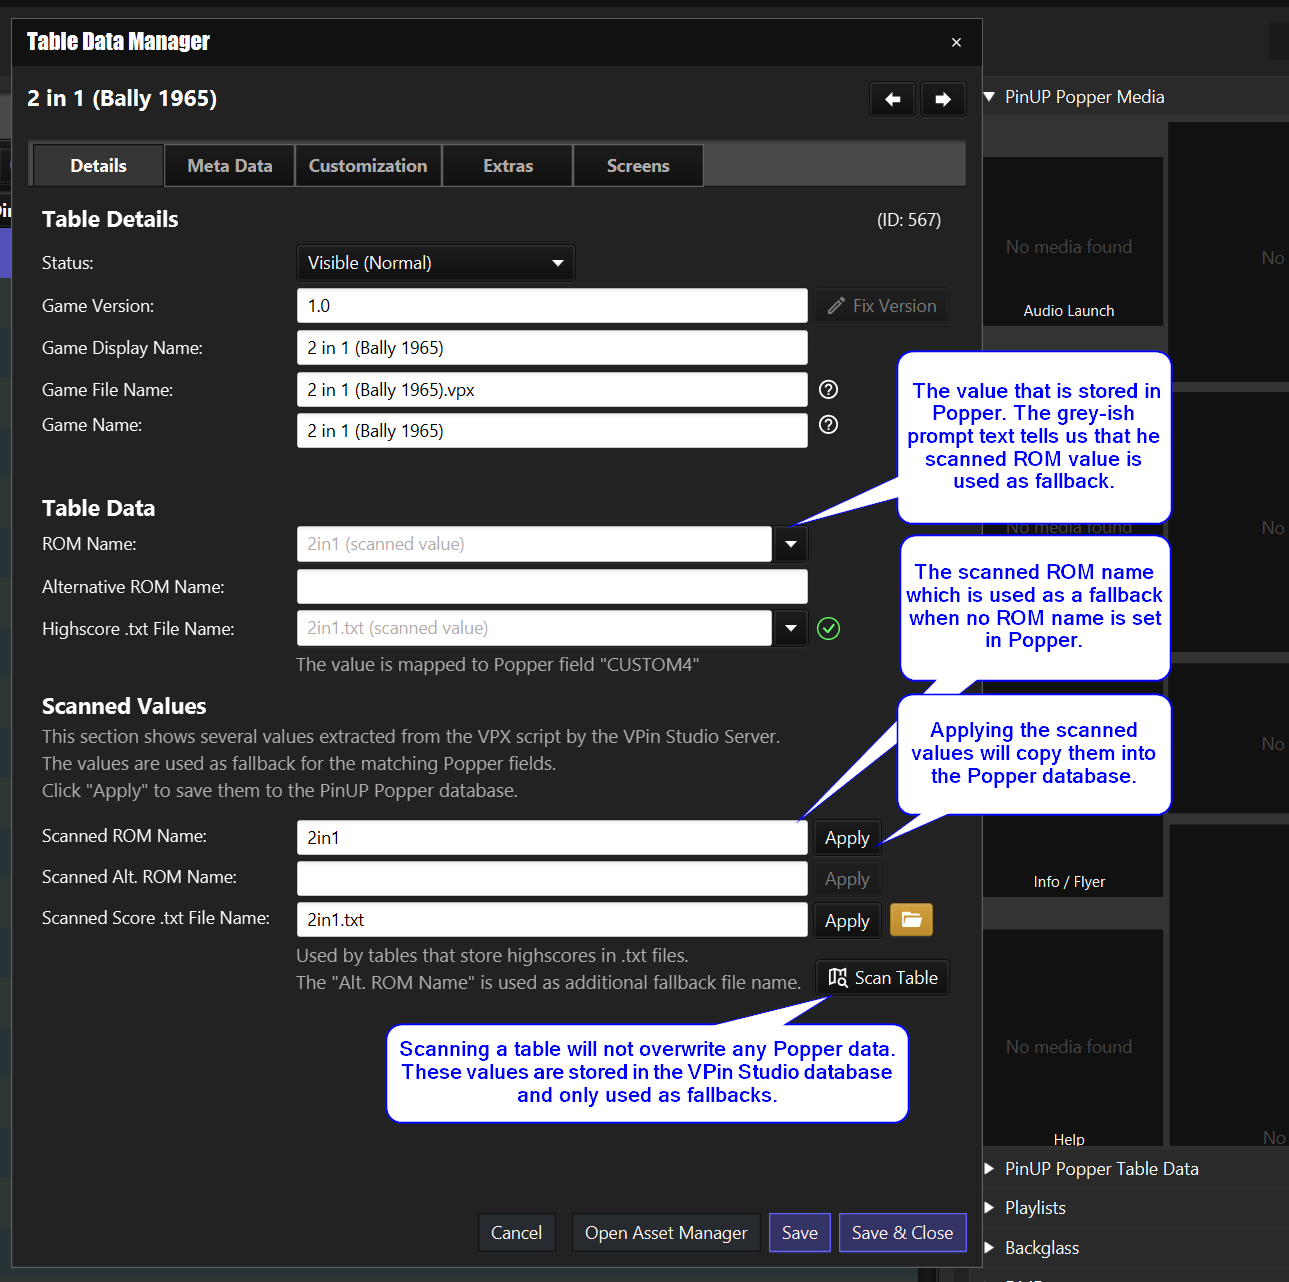
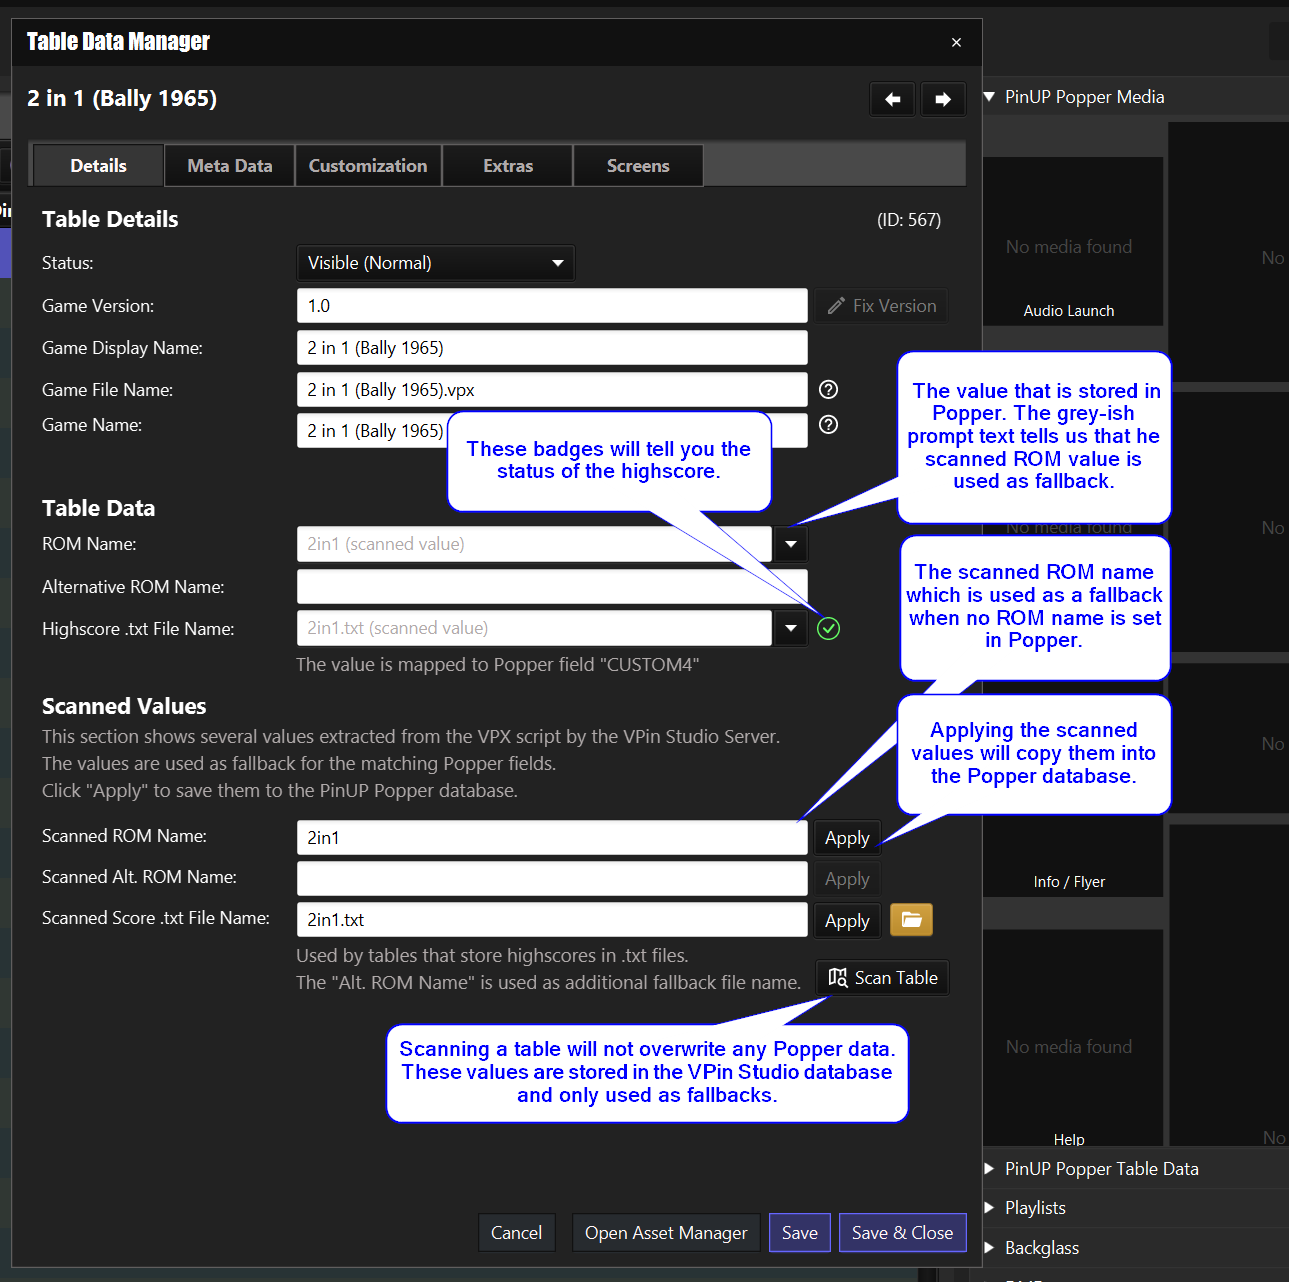
doc

Changed region(s): [[0.3413, 0.312, 0.6206, 0.4368], [0.5586, 0.4368, 0.6206, 0.468]]

diff --git a/RELEASE_NOTES.md b/RELEASE_NOTES.md
@@ -14,6 +14,8 @@ The **Table Data Manager** is now "the one" dialog to rule them all. It consolid
 - Virtual Pinball Spreadsheet data
 - VPX file script fields section
 
+<img src="https://raw.githubusercontent.com/syd711/vpin-studio/main/documentation/tables/table-manager2.png" width="650" />
+
 **It wasn't obvious where data was stored before and when exactly what value is used or preferred.**
 From now on, **the values inside the PinUP Popper database will be the single source of truth and are always preferred over the scanned table values**.
 As a result from this, large parts of the "Script Section" have been resolved into the **Table Data Manager** dialog (and moved lower to the bottom) and the "Popper Popper Table Data" section has been re-ordered.
